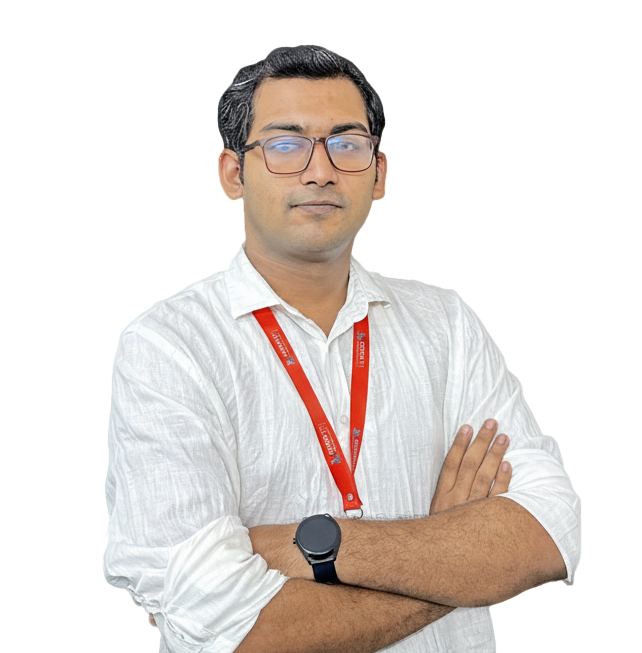
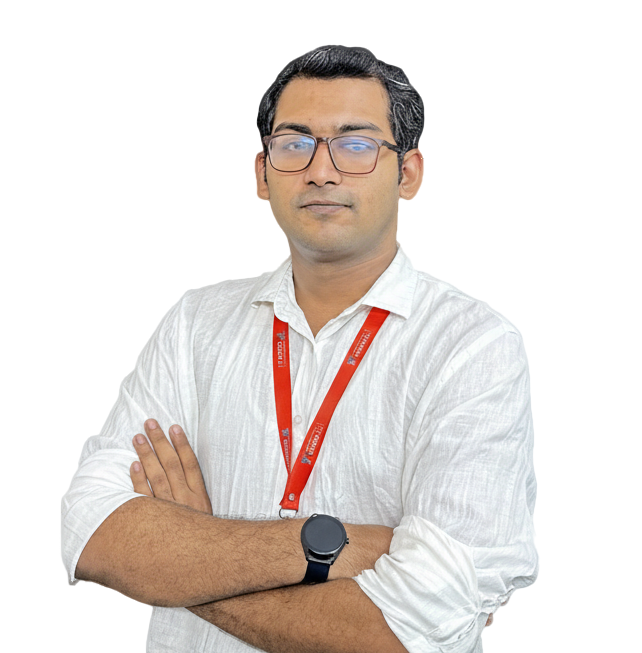
feat(discount): make endDate optional for course discounts and update related logic

Changed region(s): [[0.0935, 0.0613, 0.9034, 1.0]]

diff --git a/src/sanity/schemaTypes/objects/courseDiscount.ts b/src/sanity/schemaTypes/objects/courseDiscount.ts
@@ -29,17 +29,20 @@ export const courseDiscount = defineType({
     }),
     defineField({
       name: "endDate",
-      title: "Offer Ends On",
+      title: "Offer Ends On (optional)",
       type: "date",
-      description: "The discount is active until the end of this day.",
-      validation: (rule) => rule.required(),
+      description:
+        "The discount is active until the end of this day. Leave empty for a discount with no end date.",
     }),
   ],
   preview: {
     select: { type: "type", value: "value", endDate: "endDate" },
     prepare({ type, value, endDate }) {
       const label = type === "percentage" ? `${value}%` : `৳${value}`;
-      return { title: `${label} off`, subtitle: `Ends ${endDate ?? "—"}` };
+      return {
+        title: `${label} off`,
+        subtitle: endDate ? `Ends ${endDate}` : "No end date",
+      };
     },
   },
 });

diff --git a/src/lib/utils/pricing.ts b/src/lib/utils/pricing.ts
@@ -30,9 +30,13 @@ export const getEffectivePrice = (pricing: CoursePricing): EffectivePrice => {
 
   let isDiscountActive = false;
   if (discount && feeAfterDiscount > 0 && feeAfterDiscount < fee) {
-    const endOfDay = new Date(discount.endDate);
-    endOfDay.setHours(23, 59, 59, 999);
-    isDiscountActive = new Date() <= endOfDay;
+    if (discount.endDate) {
+      const endOfDay = new Date(discount.endDate);
+      endOfDay.setHours(23, 59, 59, 999);
+      isDiscountActive = new Date() <= endOfDay;
+    } else {
+      isDiscountActive = true;
+    }
   }
 
   return { fee, feeAfterDiscount, isDiscountActive, discount };

diff --git a/src/app/pages/course-details/course-pricing-card/course-pricing-card.tsx b/src/app/pages/course-details/course-pricing-card/course-pricing-card.tsx
@@ -102,7 +102,7 @@ const CoursePricingCard = ({ course }: { course: Course }) => {
               )}
             </div>
 
-            {effective.isDiscountActive && effective.discount && (
+            {effective.isDiscountActive && effective.discount?.endDate && (
               <p className="text-xs font-medium text-accent-foreground">
                 অফার শেষ{" "}
                 <NumSpan>

diff --git a/src/types/course.d.ts b/src/types/course.d.ts
@@ -4,7 +4,7 @@ import { CategoryName } from "@/data/categories";
 export type CourseDiscount = {
   type: "amount" | "percentage";
   value: number;
-  endDate: string; // "MM/DD/YYYY" — matches the legacy date parsing format
+  endDate?: string | null; // "MM/DD/YYYY" — matches the legacy date parsing format; empty = no end date
 };
 
 export type CoursePricing = {

diff --git a/scripts/seed-sanity.ts b/scripts/seed-sanity.ts
@@ -164,7 +164,7 @@ type CourseSeed = {
       discount?: {
         type: "amount" | "percentage";
         value: number;
-        endDate: string;
+        endDate?: string;
       };
     };
   }>;
